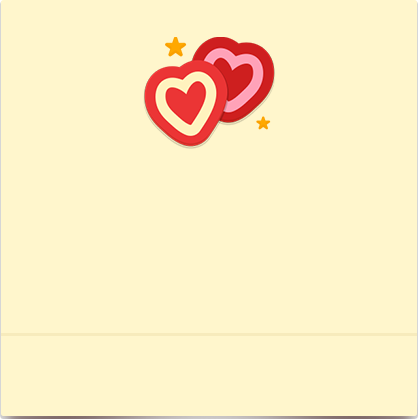
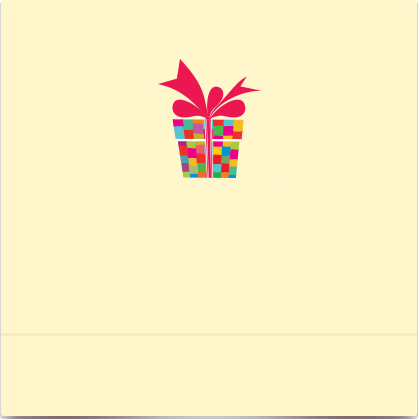
changed ftue text and image and position

Changed region(s): [[0.3421, 0.0621, 0.6842, 0.4344]]

diff --git a/windows-client/View/ConversationsList.xaml b/windows-client/View/ConversationsList.xaml
@@ -1435,7 +1435,7 @@
                                 <CompositeTransform/>
                             </Image.RenderTransform>
                         </Image>
-                        <TextBlock Grid.Row="1" Margin="45 70 45 0" Height="100" Foreground="#f14444" Text="{Binding Path= LocalizedResources.Chat_FTUE_HappyHiking, Source={StaticResource LocalizedStrings}}" TextWrapping="Wrap" TextAlignment="Center" FontSize="22" FontFamily="Segoe WP Regular" />
+                        <TextBlock Grid.Row="1" Margin="60 80 60 0" Height="80" Foreground="#f14444" Text="{Binding Path= LocalizedResources.Chat_FTUE_HappyHiking, Source={StaticResource LocalizedStrings}}" TextWrapping="Wrap" TextAlignment="Center" FontSize="22" FontFamily="Segoe WP Regular" />
                         <TextBlock Grid.Row="2" Margin="24 0 24 0" Foreground="#ffa800" Text="{Binding Path= LocalizedResources.Chat_FTUE_OpenGift, Source={StaticResource LocalizedStrings}}" FontSize="20" TextAlignment="Center" Tap="TextBlock_Tap" FontFamily="Segoe WP Bold" />
                     </Grid>
                 </Grid>

diff --git a/windows-client/Languages/AppResources.Designer.cs b/windows-client/Languages/AppResources.Designer.cs
@@ -376,7 +376,7 @@ namespace windows_client.Languages {
         }
         
         /// <summary>
-        ///   Looks up a localized string similar to Celebrate the month of love! We have a gift for you....
+        ///   Looks up a localized string similar to We&apos;ve got a gift for you!.
         /// </summary>
         public static string Chat_FTUE_HappyHiking {
             get {
